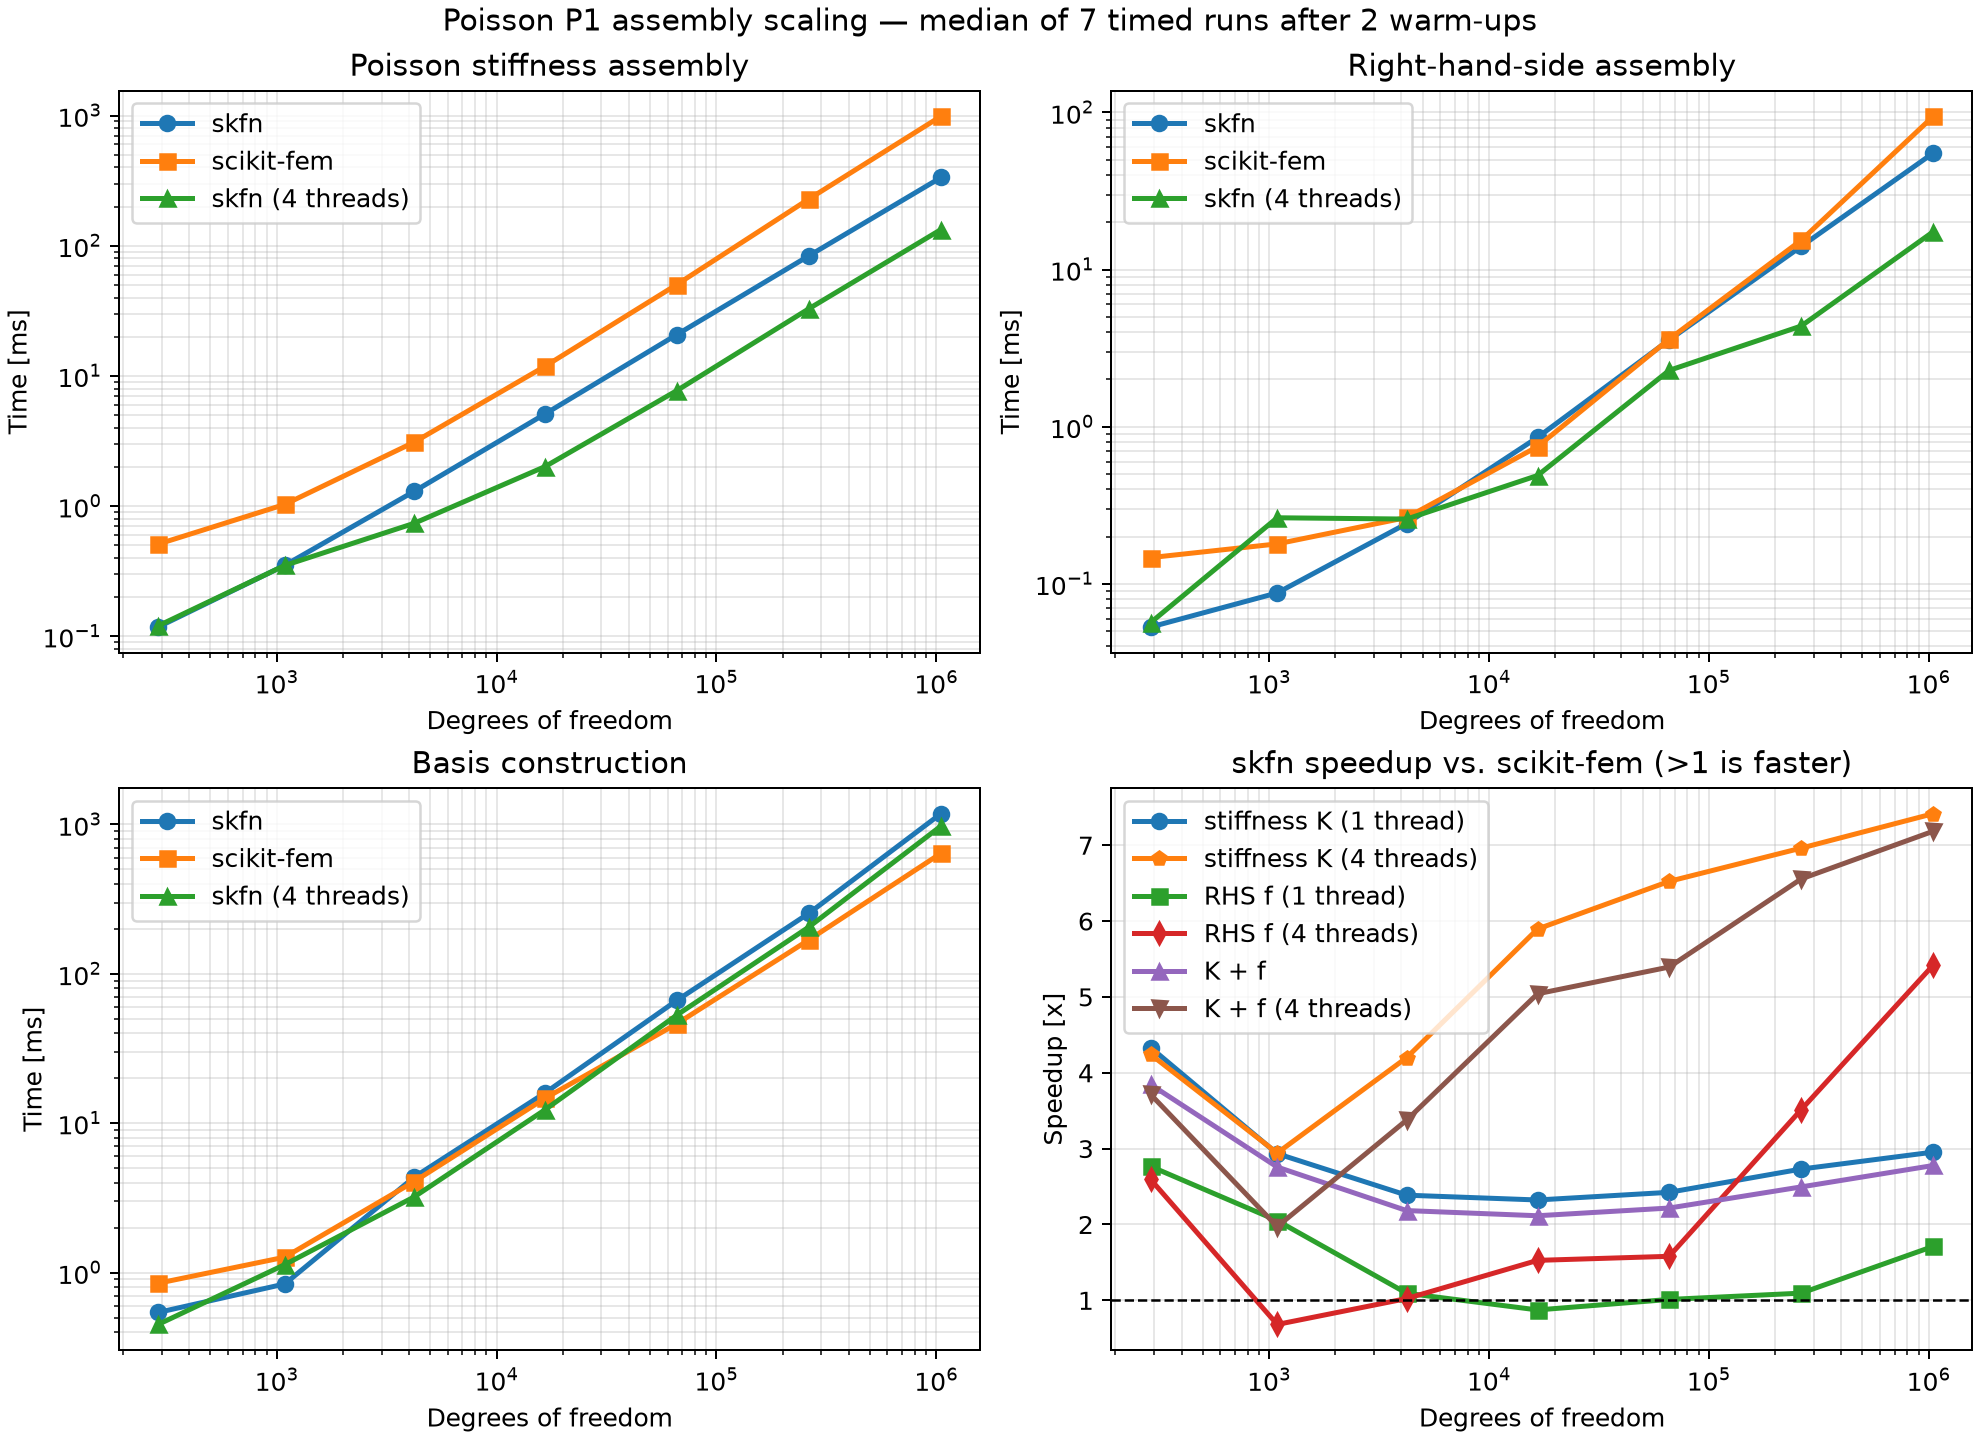
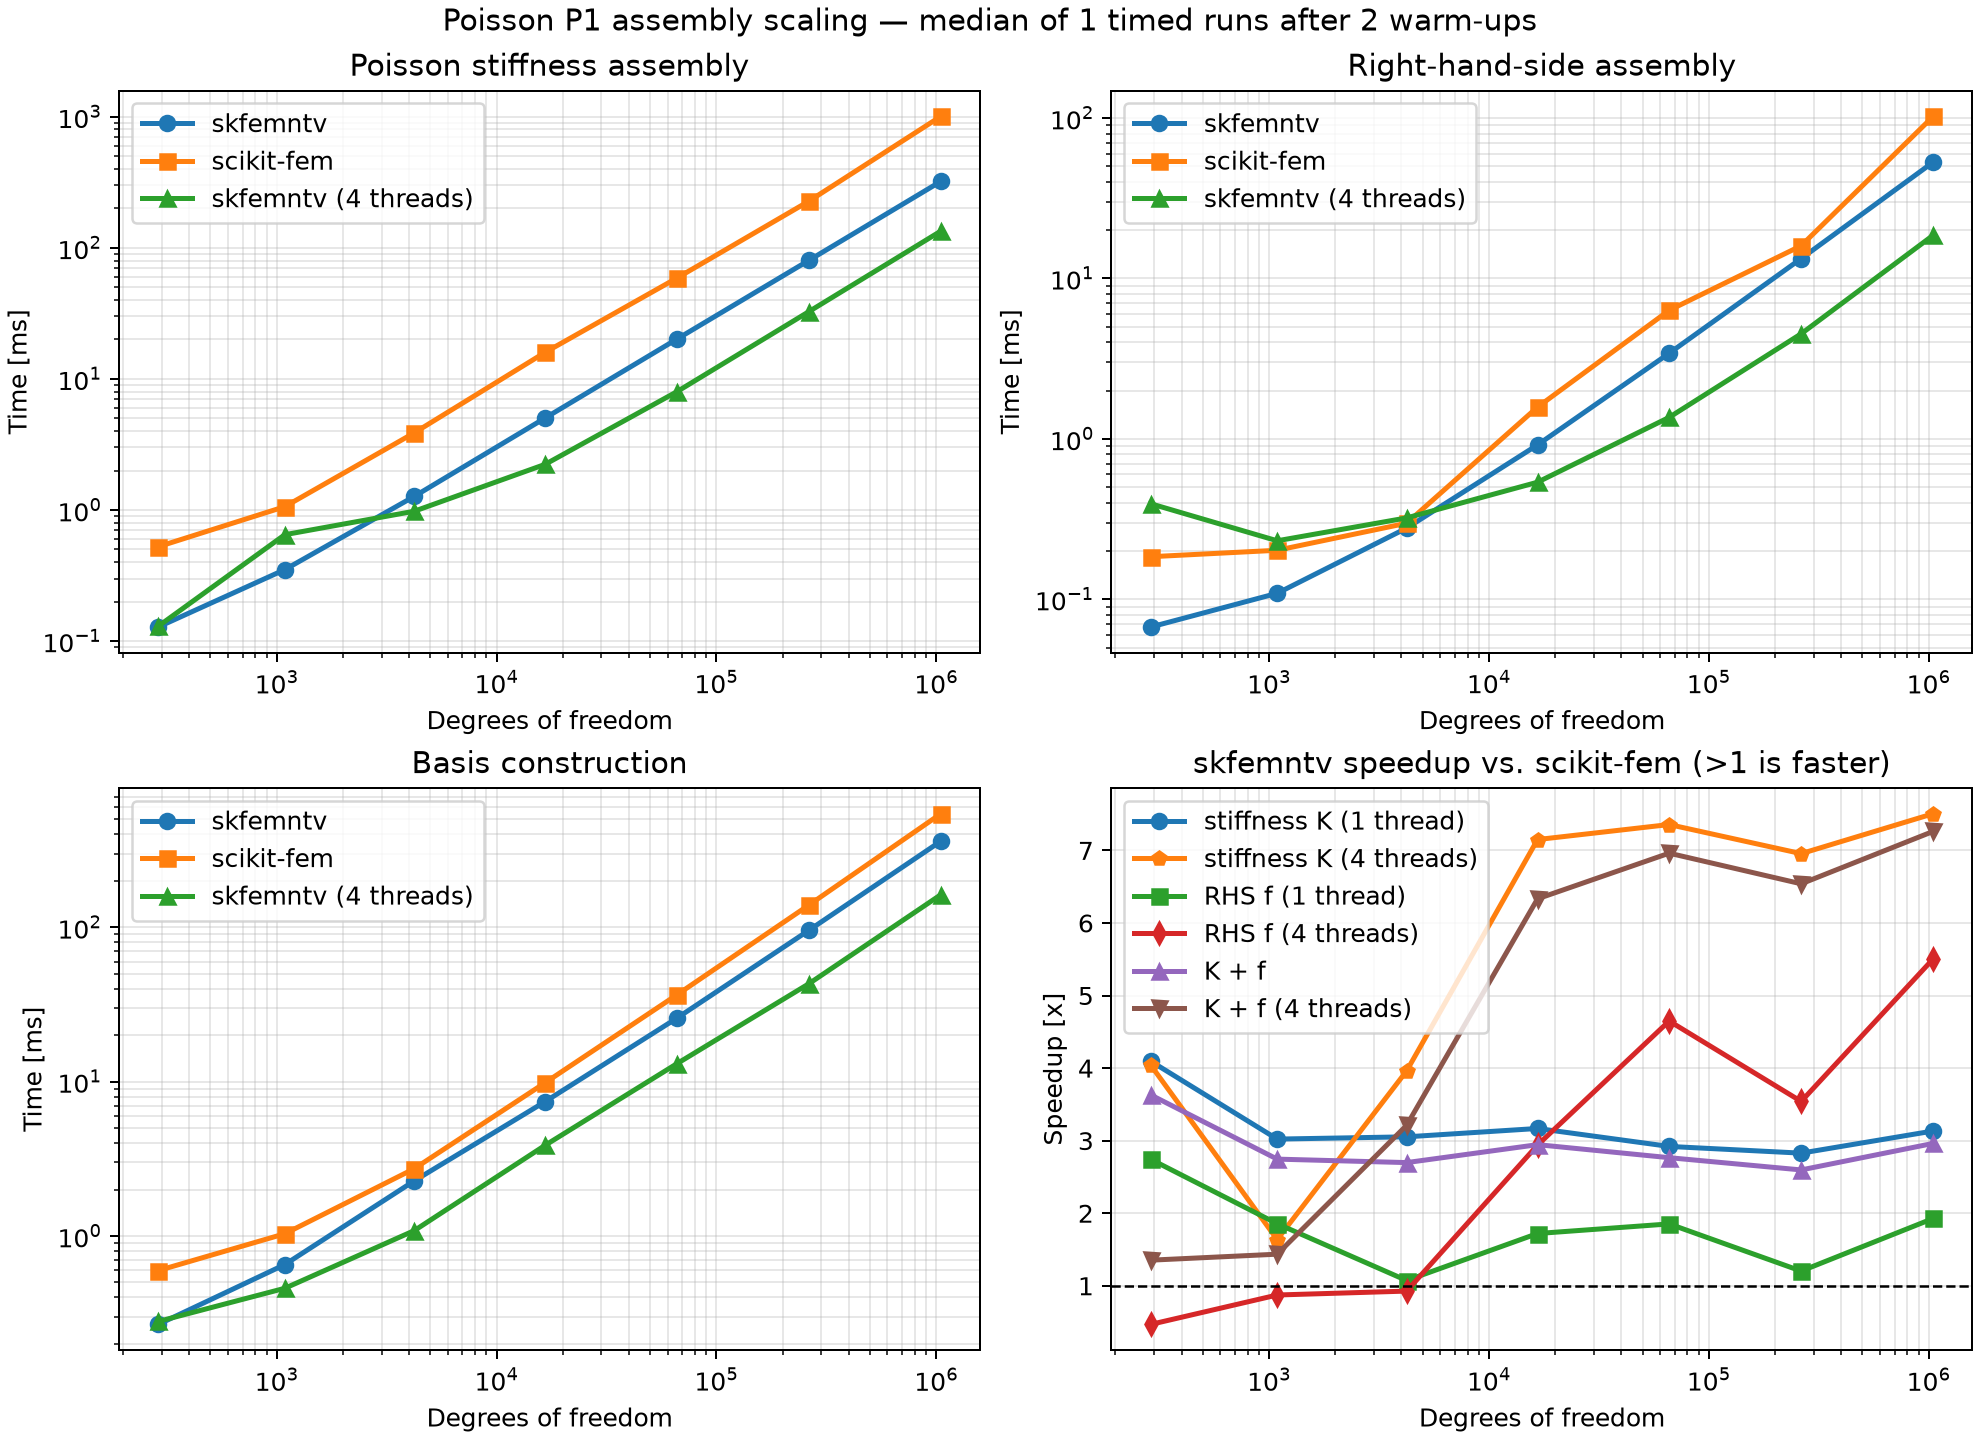
Refresh comparison results and cache triangle frames

diff --git a/cpp/src/assembly/supermesh_builder.cpp b/cpp/src/assembly/supermesh_builder.cpp
@@ -29,6 +29,19 @@ struct BuildOutput {
     double area_total{},maximum_gap{};
 };
 
+struct MasterFrame {
+    std::array<V3,3>xyz;
+    std::array<V2,3>projected;
+    V3 tangent0{},tangent1{},normal{};
+    bool valid{};
+};
+
+struct SlaveFrame {
+    std::array<V3,3>xyz;
+    V3 normal{};
+    bool valid{};
+};
+
 V2 add(V2 a, V2 b) { return {a[0] + b[0], a[1] + b[1]}; }
 V2 sub(V2 a, V2 b) { return {a[0] - b[0], a[1] - b[1]}; }
 V2 scale(V2 a, double s) { return {s * a[0], s * a[1]}; }
@@ -261,6 +274,60 @@ py::dict build_triangle_supermesh(
             }
         }
     }
+    std::vector<MasterFrame>master_frames(master_count);
+    std::vector<SlaveFrame>slave_frames(slave_count);
+    {
+        py::gil_scoped_release release;
+        native_fem::parallel_for_workers(
+            master_frames.size(),requested_threads,
+            [&](std::size_t,std::size_t begin,std::size_t end){
+            for(std::size_t index=begin;index<end;++index){
+                auto&frame=master_frames[index];
+                for(int local=0;local<3;++local)frame.xyz[local]=point(
+                    master_point,mp.shape[1],triangle_node(
+                        master_node,master_count,local,index
+                    )
+                );
+                frame.tangent0=sub(frame.xyz[1],frame.xyz[0]);
+                frame.normal=cross(
+                    frame.tangent0,sub(frame.xyz[2],frame.xyz[0])
+                );
+                const double tangent_norm=norm(frame.tangent0);
+                const double normal_norm=norm(frame.normal);
+                if(tangent_norm<=tolerance||normal_norm<=tolerance)continue;
+                frame.tangent0=scale(frame.tangent0,1./tangent_norm);
+                frame.normal=scale(frame.normal,1./normal_norm);
+                frame.tangent1=cross(frame.normal,frame.tangent0);
+                for(int local=0;local<3;++local){
+                    const auto delta=sub(frame.xyz[local],frame.xyz[0]);
+                    frame.projected[local]={
+                        dot(delta,frame.tangent0),dot(delta,frame.tangent1)
+                    };
+                }
+                frame.valid=true;
+            }
+        });
+        native_fem::parallel_for_workers(
+            slave_frames.size(),requested_threads,
+            [&](std::size_t,std::size_t begin,std::size_t end){
+            for(std::size_t index=begin;index<end;++index){
+                auto&frame=slave_frames[index];
+                for(int local=0;local<3;++local)frame.xyz[local]=point(
+                    slave_point,sp.shape[1],triangle_node(
+                        slave_node,slave_count,local,index
+                    )
+                );
+                frame.normal=cross(
+                    sub(frame.xyz[1],frame.xyz[0]),
+                    sub(frame.xyz[2],frame.xyz[0])
+                );
+                const double normal_norm=norm(frame.normal);
+                if(normal_norm<=tolerance)continue;
+                frame.normal=scale(frame.normal,1./normal_norm);
+                frame.valid=true;
+            }
+        });
+    }
     const auto worker_count=std::max<std::size_t>(
         1,native_fem::effective_threads(candidates.size(),requested_threads)
     );
@@ -289,34 +356,19 @@ py::dict build_triangle_supermesh(
             for(std::size_t candidate=begin;candidate<end;++candidate){
                 const auto [master,slave]=candidates[candidate];
 
-                std::array<V3, 3> master_xyz, slave_xyz;
-                for (int local = 0; local < 3; ++local) {
-                    master_xyz[local] = point(
-                        master_point, mp.shape[1],
-                        triangle_node(master_node, master_count, local, master)
-                    );
-                    slave_xyz[local] = point(
-                        slave_point, sp.shape[1],
-                        triangle_node(slave_node, slave_count, local, slave)
-                    );
-                }
-                V3 tangent0 = sub(master_xyz[1], master_xyz[0]);
-                V3 normal = cross(tangent0, sub(master_xyz[2], master_xyz[0]));
-                const double normal_norm = norm(normal);
-                const double tangent_norm = norm(tangent0);
-                if (normal_norm <= tolerance || tangent_norm <= tolerance) continue;
-                normal = scale(normal, 1.0 / normal_norm);
-                tangent0 = scale(tangent0, 1.0 / tangent_norm);
-                const V3 tangent1 = cross(normal, tangent0);
-
-                std::array<V2, 3> master_2d, slave_2d;
+                const auto&master_frame=master_frames[master];
+                const auto&slave_frame=slave_frames[slave];
+                if(!master_frame.valid||!slave_frame.valid)continue;
+                const auto&master_xyz=master_frame.xyz;
+                const auto&slave_xyz=slave_frame.xyz;
+                const auto&tangent0=master_frame.tangent0;
+                const auto&tangent1=master_frame.tangent1;
+                const auto&normal=master_frame.normal;
+                const auto&master_2d=master_frame.projected;
+                std::array<V2,3>slave_2d;
                 double plane_gap = 0.0;
                 for (int local = 0; local < 3; ++local) {
-                    const V3 master_delta = sub(master_xyz[local], master_xyz[0]);
                     const V3 slave_delta = sub(slave_xyz[local], master_xyz[0]);
-                    master_2d[local] = {
-                        dot(master_delta, tangent0), dot(master_delta, tangent1)
-                    };
                     slave_2d[local] = {
                         dot(slave_delta, tangent0), dot(slave_delta, tangent1)
                     };
@@ -324,11 +376,36 @@ py::dict build_triangle_supermesh(
                         plane_gap, std::abs(dot(slave_delta, normal))
                     );
                 }
-                maximum_gap = std::max(maximum_gap, plane_gap);
-                if (plane_gap > projection_tolerance) {
+                maximum_gap=std::max(maximum_gap,plane_gap);
+                if(plane_gap>projection_tolerance){
                     ++noncoplanar_count;
                     continue;
                 }
+                V2 master_lower=master_2d[0],master_upper=master_2d[0];
+                V2 slave_lower=slave_2d[0],slave_upper=slave_2d[0];
+                for(int local=1;local<3;++local)for(int d=0;d<2;++d){
+                    master_lower[d]=std::min(
+                        master_lower[d],master_2d[local][d]
+                    );
+                    master_upper[d]=std::max(
+                        master_upper[d],master_2d[local][d]
+                    );
+                    slave_lower[d]=std::min(
+                        slave_lower[d],slave_2d[local][d]
+                    );
+                    slave_upper[d]=std::max(
+                        slave_upper[d],slave_2d[local][d]
+                    );
+                }
+                const double overlap_width=std::max(
+                    0.,std::min(master_upper[0],slave_upper[0])-
+                       std::max(master_lower[0],slave_lower[0])
+                );
+                const double overlap_height=std::max(
+                    0.,std::min(master_upper[1],slave_upper[1])-
+                       std::max(master_lower[1],slave_lower[1])
+                );
+                if(overlap_width*overlap_height<=tolerance)continue;
                 std::vector<V2> polygon{
                     master_2d[0], master_2d[1], master_2d[2]
                 };
@@ -349,11 +426,7 @@ py::dict build_triangle_supermesh(
                     master_indices.push_back(master);
                     slave_indices.push_back(slave);
 
-                    V3 slave_normal = cross(
-                        sub(slave_xyz[1], slave_xyz[0]),
-                        sub(slave_xyz[2], slave_xyz[0])
-                    );
-                    slave_normal = scale(slave_normal, 1.0 / norm(slave_normal));
+                    V3 slave_normal=slave_frame.normal;
                     if (dot(slave_normal, normal) > 0.0) {
                         slave_normal = scale(slave_normal, -1.0);
                     }

diff --git a/benchmarks/compare-with-skfem/results/poisson-linux-x86_64.md b/benchmarks/compare-with-skfem/results/poisson-linux-x86_64.md
@@ -1,29 +1,29 @@
 # skfemntv vs. scikit-fem: Poisson assembly
 
-Generated: 2026-07-31T15:13:28.351151+00:00
+Generated: 2026-08-02T15:43:25.157221+00:00
 
 Environment: `Python 3.12.12, NumPy 2.5.1, SciPy 1.18.0, skfemntv 0.1.0, scikit-fem 12.0.2, Linux-6.8.0-136-generic-x86_64-with-glibc2.35`
 
-Warm-cache median of 7 timed runs after 2 warm-up runs; solve time is excluded.
+Warm-cache median of 1 timed runs after 2 warm-up runs; solve time is excluded.
 
 | DoFs | Elements | skfemntv K [ms] | skfemntv K parallel [ms] | threads | skfem K [ms] | K speedup | parallel K speedup | skfemntv f [ms] | skfemntv f parallel [ms] | threads | skfem f [ms] | skfemntv f speedup | parallel f speedup | skfemntv total speedup |
 |---:|---:|---:|---:|---:|---:|---:|---:|---:|---:|---:|---:|---:|---:|---:|
-| 289 | 512 | 0.118 | 0.120 | 4 | 0.510 | 4.33x | 4.24x | 0.053 | 0.057 | 4 | 0.147 | 2.77x | 2.60x | 3.85x |
-| 1089 | 2048 | 0.351 | 0.350 | 4 | 1.030 | 2.93x | 2.94x | 0.088 | 0.263 | 4 | 0.180 | 2.05x | 0.68x | 2.76x |
-| 4225 | 8192 | 1.299 | 0.738 | 4 | 3.100 | 2.39x | 4.20x | 0.242 | 0.259 | 4 | 0.265 | 1.09x | 1.02x | 2.18x |
-| 16641 | 32768 | 5.110 | 2.013 | 4 | 11.869 | 2.32x | 5.90x | 0.856 | 0.489 | 4 | 0.747 | 0.87x | 1.53x | 2.12x |
-| 66049 | 131072 | 20.745 | 7.708 | 4 | 50.285 | 2.42x | 6.52x | 3.567 | 2.283 | 4 | 3.608 | 1.01x | 1.58x | 2.22x |
-| 263169 | 524288 | 83.540 | 32.766 | 4 | 228.109 | 2.73x | 6.96x | 14.034 | 4.373 | 4 | 15.363 | 1.09x | 3.51x | 2.50x |
-| 1050625 | 2097152 | 334.092 | 133.080 | 4 | 986.948 | 2.95x | 7.42x | 55.221 | 17.437 | 4 | 94.526 | 1.71x | 5.42x | 2.78x |
+| 289 | 512 | 0.128 | 0.130 | 4 | 0.524 | 4.10x | 4.04x | 0.067 | 0.394 | 4 | 0.184 | 2.74x | 0.47x | 3.63x |
+| 1089 | 2048 | 0.351 | 0.648 | 4 | 1.061 | 3.02x | 1.64x | 0.109 | 0.231 | 4 | 0.202 | 1.85x | 0.87x | 2.75x |
+| 4225 | 8192 | 1.270 | 0.979 | 4 | 3.878 | 3.05x | 3.96x | 0.278 | 0.321 | 4 | 0.298 | 1.07x | 0.93x | 2.70x |
+| 16641 | 32768 | 5.033 | 2.230 | 4 | 15.944 | 3.17x | 7.15x | 0.917 | 0.537 | 4 | 1.577 | 1.72x | 2.94x | 2.94x |
+| 66049 | 131072 | 20.096 | 7.978 | 4 | 58.688 | 2.92x | 7.36x | 3.415 | 1.361 | 4 | 6.326 | 1.85x | 4.65x | 2.77x |
+| 263169 | 524288 | 80.093 | 32.563 | 4 | 226.491 | 2.83x | 6.96x | 13.298 | 4.516 | 4 | 15.990 | 1.20x | 3.54x | 2.60x |
+| 1050625 | 2097152 | 321.605 | 134.251 | 4 | 1007.764 | 3.13x | 7.51x | 53.182 | 18.624 | 4 | 102.570 | 1.93x | 5.51x | 2.96x |
 
 Basis construction:
 
 | DoFs | skfemntv 1 thread [ms] | skfemntv parallel [ms] | threads | skfem [ms] | speedup |
 |---:|---:|---:|---:|---:|---:|
-| 289 | 0.541 | 0.450 | 4 | 0.848 | 1.57x |
-| 1089 | 0.840 | 1.131 | 4 | 1.269 | 1.51x |
-| 4225 | 4.358 | 3.213 | 4 | 4.071 | 0.93x |
-| 16641 | 15.968 | 12.317 | 4 | 14.693 | 0.92x |
-| 66049 | 66.336 | 52.929 | 4 | 46.299 | 0.70x |
-| 263169 | 253.927 | 205.531 | 4 | 168.523 | 0.66x |
-| 1050625 | 1180.653 | 975.396 | 4 | 640.917 | 0.54x |
+| 289 | 0.267 | 0.279 | 4 | 0.597 | 2.23x |
+| 1089 | 0.653 | 0.458 | 4 | 1.034 | 1.58x |
+| 4225 | 2.276 | 1.083 | 4 | 2.729 | 1.20x |
+| 16641 | 7.423 | 3.869 | 4 | 9.837 | 1.33x |
+| 66049 | 25.754 | 13.055 | 4 | 36.459 | 1.42x |
+| 263169 | 95.461 | 43.031 | 4 | 139.101 | 1.46x |
+| 1050625 | 361.732 | 162.724 | 4 | 544.621 | 1.51x |
